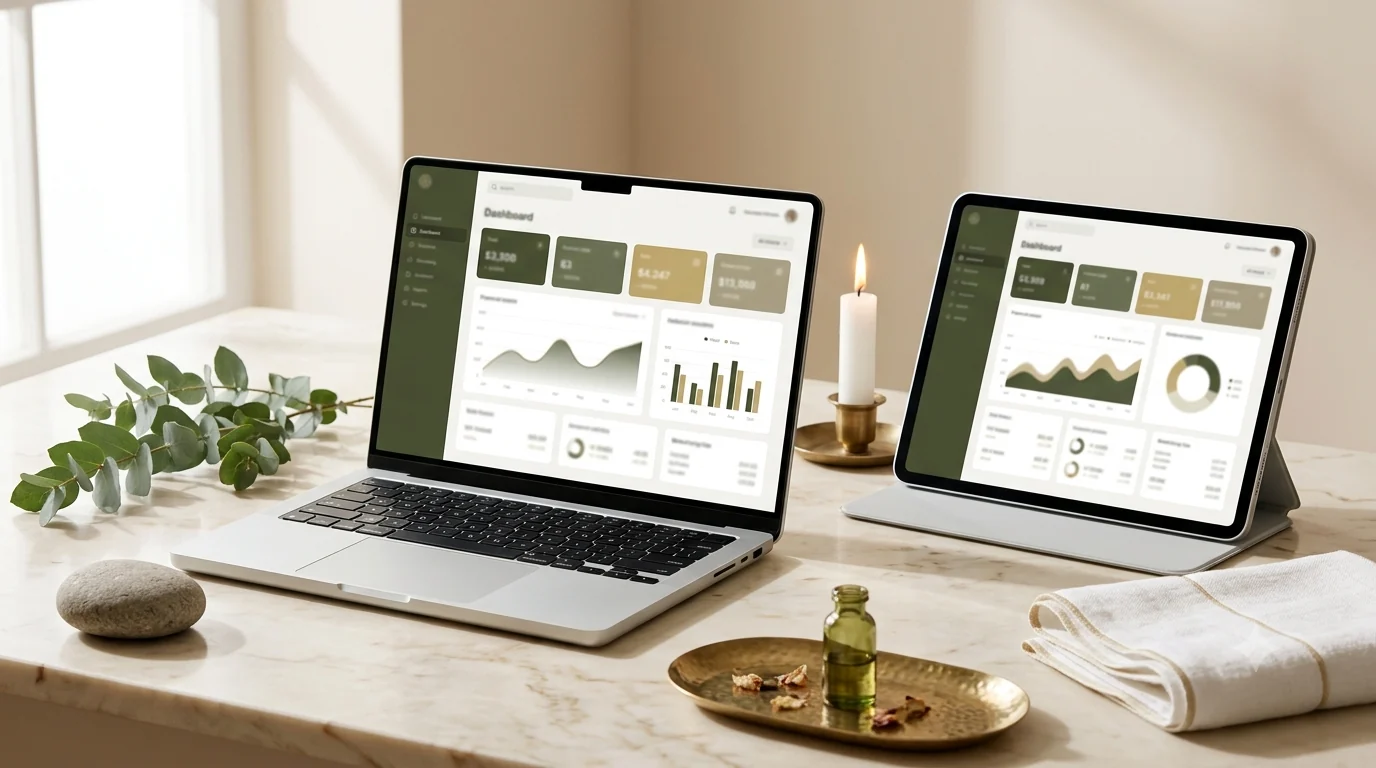
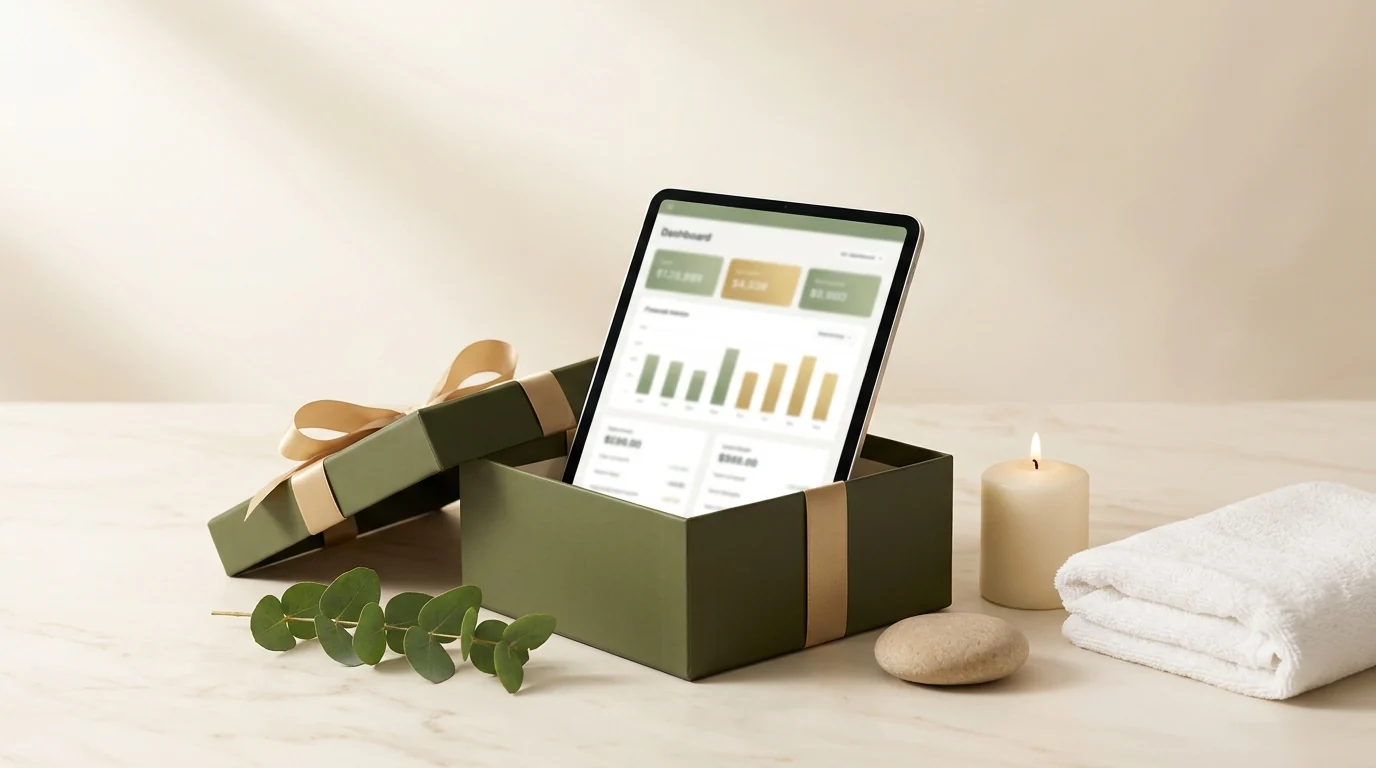
Doi ten thuong hieu -> Chu Spa Binh An; anh qua tang moi; sua xung ho tren nut

diff --git a/kiem-tra-dong-tien/index.html b/kiem-tra-dong-tien/index.html
@@ -86,7 +86,7 @@
 <body>
 <div class="wrap">
 
-  <div class="brandbar"><span><b>Giải Pháp Đàm Hoa</b></span><span>Quà tặng miễn phí</span></div>
+  <div class="brandbar"><span><b>Chủ Spa Bình An</b></span><span>Quà tặng miễn phí</span></div>
 
   <!-- HERO -->
   <div class="card">
@@ -159,7 +159,7 @@
       <label for="email">Email để nhận quà</label>
       <input id="email" name="email" type="email" autocomplete="email" inputmode="email" placeholder="ten@gmail.com" required>
 
-      <button class="btn" type="submit" id="btn">Gửi quà cho em nhé 🎁</button>
+      <button class="btn" type="submit" id="btn">Nhận quà miễn phí 🎁</button>
     </form>
 
     <div class="msg" id="msg"></div>
@@ -186,7 +186,7 @@
       <div class="av">ĐH</div>
       <div>
         <div style="font-weight:800;color:var(--olive-deep);font-size:16.5px;">Đàm Thanh Hoa</div>
-        <div style="font-size:13px;color:var(--olive-soft);margin-top:2px;">Giải Pháp Đàm Hoa · Hệ thống vận hành cho chủ spa</div>
+        <div style="font-size:13px;color:var(--olive-soft);margin-top:2px;">Chủ Spa Bình An · Hệ thống vận hành cho chủ spa</div>
         <p style="font-size:14.4px;color:var(--ink-soft);margin-top:10px;">Em làm bảng này vì gặp quá nhiều chị chủ spa chăm chỉ, tay nghề giỏi, khách quý — nhưng cuối tháng vẫn không có tiền, rồi tự trách mình. Phần lớn không phải lỗi của các chị. Là do <b>chưa có hệ thống để nhìn ra con số thật</b>. Nhìn ra rồi thì sửa được.</p>
       </div>
     </div>
@@ -194,7 +194,7 @@
 
   <div class="anchor-cta"><a href="#nhanqua">Nhận quà miễn phí →</a></div>
 
-  <p class="foot">© Giải Pháp Đàm Hoa · Đàm Thanh Hoa<br>Quà tặng miễn phí dành cho chủ spa Việt Nam</p>
+  <p class="foot">© Chủ Spa Bình An · Đàm Thanh Hoa<br>Quà tặng miễn phí dành cho chủ spa Việt Nam</p>
 </div>
 
 <script>
@@ -226,7 +226,7 @@ var CONFIG = {
       return bao('no','Trang đang được hoàn thiện, chị quay lại sau ít phút giúp em ạ.');
     }
 
-    btn.disabled = true; btn.textContent = 'Em đang gửi…';
+    btn.disabled = true; btn.textContent = 'Đang gửi…';
     fetch(CONFIG.apiUrl, {
       method: 'POST',
       headers: { 'Content-Type': 'text/plain;charset=utf-8' },
@@ -241,12 +241,12 @@ var CONFIG = {
         f.style.display = 'none';
         bao('ok', '<b>' + d.thongDiep + '</b><br>Chị mở hộp thư <b>' + email.value.trim() + '</b> và bấm nút xác nhận trong email của em nha. Không thấy thì chị xem mục <b>Quảng cáo</b> hoặc <b>Thư rác</b> giúp em ạ.');
       } else {
-        btn.disabled = false; btn.textContent = 'Gửi quà cho em nhé 🎁';
+        btn.disabled = false; btn.textContent = 'Nhận quà miễn phí 🎁';
         bao('no', (d && d.thongDiep) || 'Có trục trặc, chị thử lại giúp em ạ.');
       }
     })
     .catch(function(){
-      btn.disabled = false; btn.textContent = 'Gửi quà cho em nhé 🎁';
+      btn.disabled = false; btn.textContent = 'Nhận quà miễn phí 🎁';
       bao('no','Mạng đang trục trặc nên chưa gửi được. Chị thử lại giúp em, hoặc nhắn trực tiếp cho em cũng được ạ.');
     });
   });

diff --git a/checklist-3-lo-thung/index.html b/checklist-3-lo-thung/index.html
@@ -7,7 +7,7 @@
 <meta name="description" content="Tự soi 5 phút: spa của chị đang thiếu hệ thống giữ khách, bán hàng hay vận hành — và tiền đang rò qua lỗ nào.">
 <!--
   QT-002 · Checklist 3 Lỗ Thủng Đang Rút Cạn Tiền Spa — APP DIGITAL-FIRST (CANONICAL · SSOT)
-  Owner: BÌNH (P3) · Giải Pháp Đàm Hoa
+  Owner: BÌNH (P3) · Chủ Spa Bình An
 
   KIẾN TRÚC 1-NGUỒN-2-HÌNH-HÀI:
   - Toàn bộ nội dung nằm trong 1 object DATA (khối đánh dấu CORE-START → CORE-END bên dưới).
@@ -223,7 +223,7 @@
 const DATA = {
   meta: {
     code: "QT-002",
-    brand: "Giải Pháp Đàm Hoa",
+    brand: "Chủ Spa Bình An",
     community: "Chủ Spa Bình An",
     author: "Đàm Thanh Hoa"
   },
@@ -329,7 +329,7 @@ const DATA = {
     circleNote: "◯ khoanh nếu đây là lỗ nặng nhất"
   },
   signature: "Thương chị — người làm nghề tử tế. Một spa không cần lớn ngay để đáng tự hào; nó cần sống được, vững được, rồi mới lớn. — Đàm Thanh Hoa",
-  footer: { left: "🌿 Giải Pháp Đàm Hoa · Quà tặng miễn phí cho chủ spa", right: "Nhận thêm công cụ miễn phí 👉 [link]" },
+  footer: { left: "🌿 Chủ Spa Bình An · Quà tặng miễn phí cho chủ spa", right: "Nhận thêm công cụ miễn phí 👉 [link]" },
   lead: {
     heading: "Nhận bản kết quả đầy đủ + hướng dẫn vá từng lỗ",
     body: "Chị để lại thông tin, em gửi bản kết quả + tài liệu hướng dẫn qua email cho chị nha (quà chỉ giao qua email — chị nhớ kiểm tra cả mục Quảng cáo/Spam).",

diff --git a/README.md b/README.md
@@ -1,6 +1,6 @@
-# Giải Pháp Đàm Hoa — Công cụ miễn phí cho chủ spa
+# Chủ Spa Bình An — Công cụ miễn phí cho chủ spa
 
-Trang công cụ (GitHub Pages) của thương hiệu **Giải Pháp Đàm Hoa** · Đàm Thanh Hoa.
+Trang công cụ (GitHub Pages) của thương hiệu **Chủ Spa Bình An** · Đàm Thanh Hoa.
 
 | Trang | Đường dẫn | Vai trò |
 |---|---|---|
@@ -10,7 +10,7 @@ Trang công cụ (GitHub Pages) của thương hiệu **Giải Pháp Đàm Hoa**
 ## Trang thu lead `/kiem-tra-dong-tien/`
 - Form gửi về **Google Apps Script Web App** (double opt-in): khách điền → nhận email xác nhận → bấm xác nhận → nhận link quà.
 - Ai không bấm xác nhận thì **không vào danh sách gửi** (tránh bị đánh dấu spam).
-- Sổ lead: Google Sheet `DANH SÁCH LEAD — Giải Pháp Đàm Hoa` (Drive của Hoa).
+- Sổ lead: Google Sheet `DANH SÁCH LEAD — Chủ Spa Bình An` (Drive của Hoa).
 - Đổi endpoint: sửa `CONFIG.apiUrl` trong `kiem-tra-dong-tien/index.html`.
 - Ảnh quà tạo bằng **Gemini**, tông cream–olive–gold theo bảng màu thương hiệu.
 
